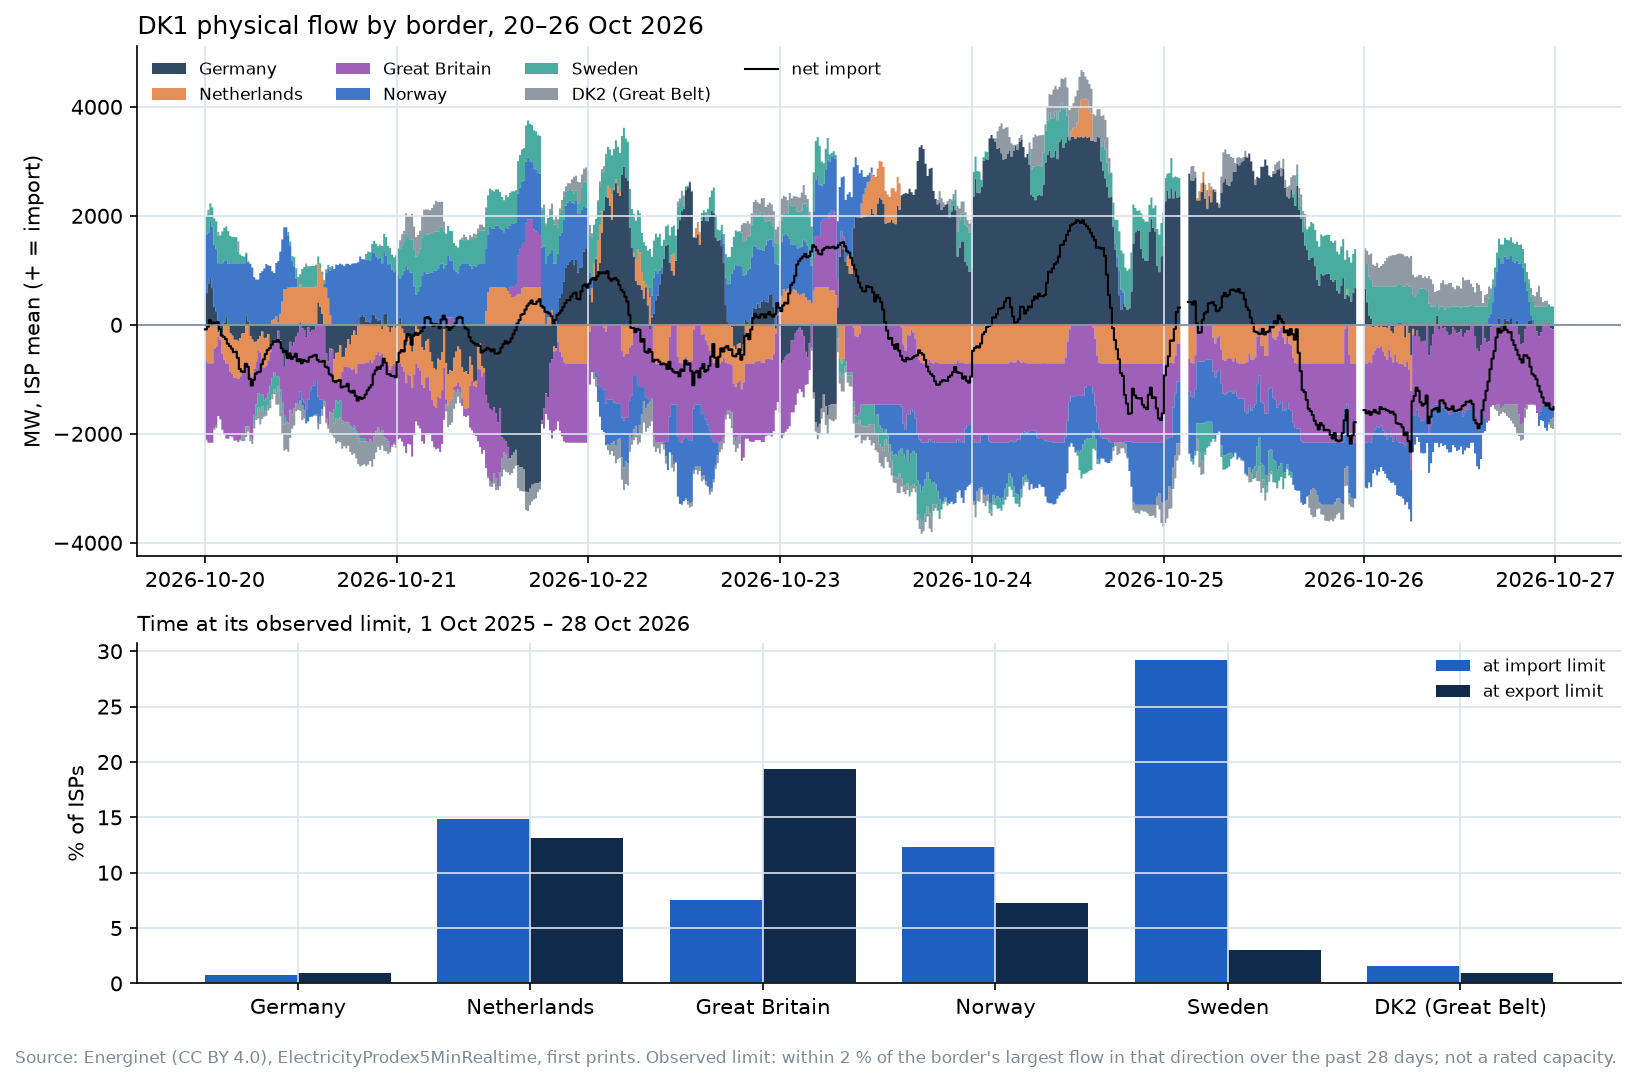
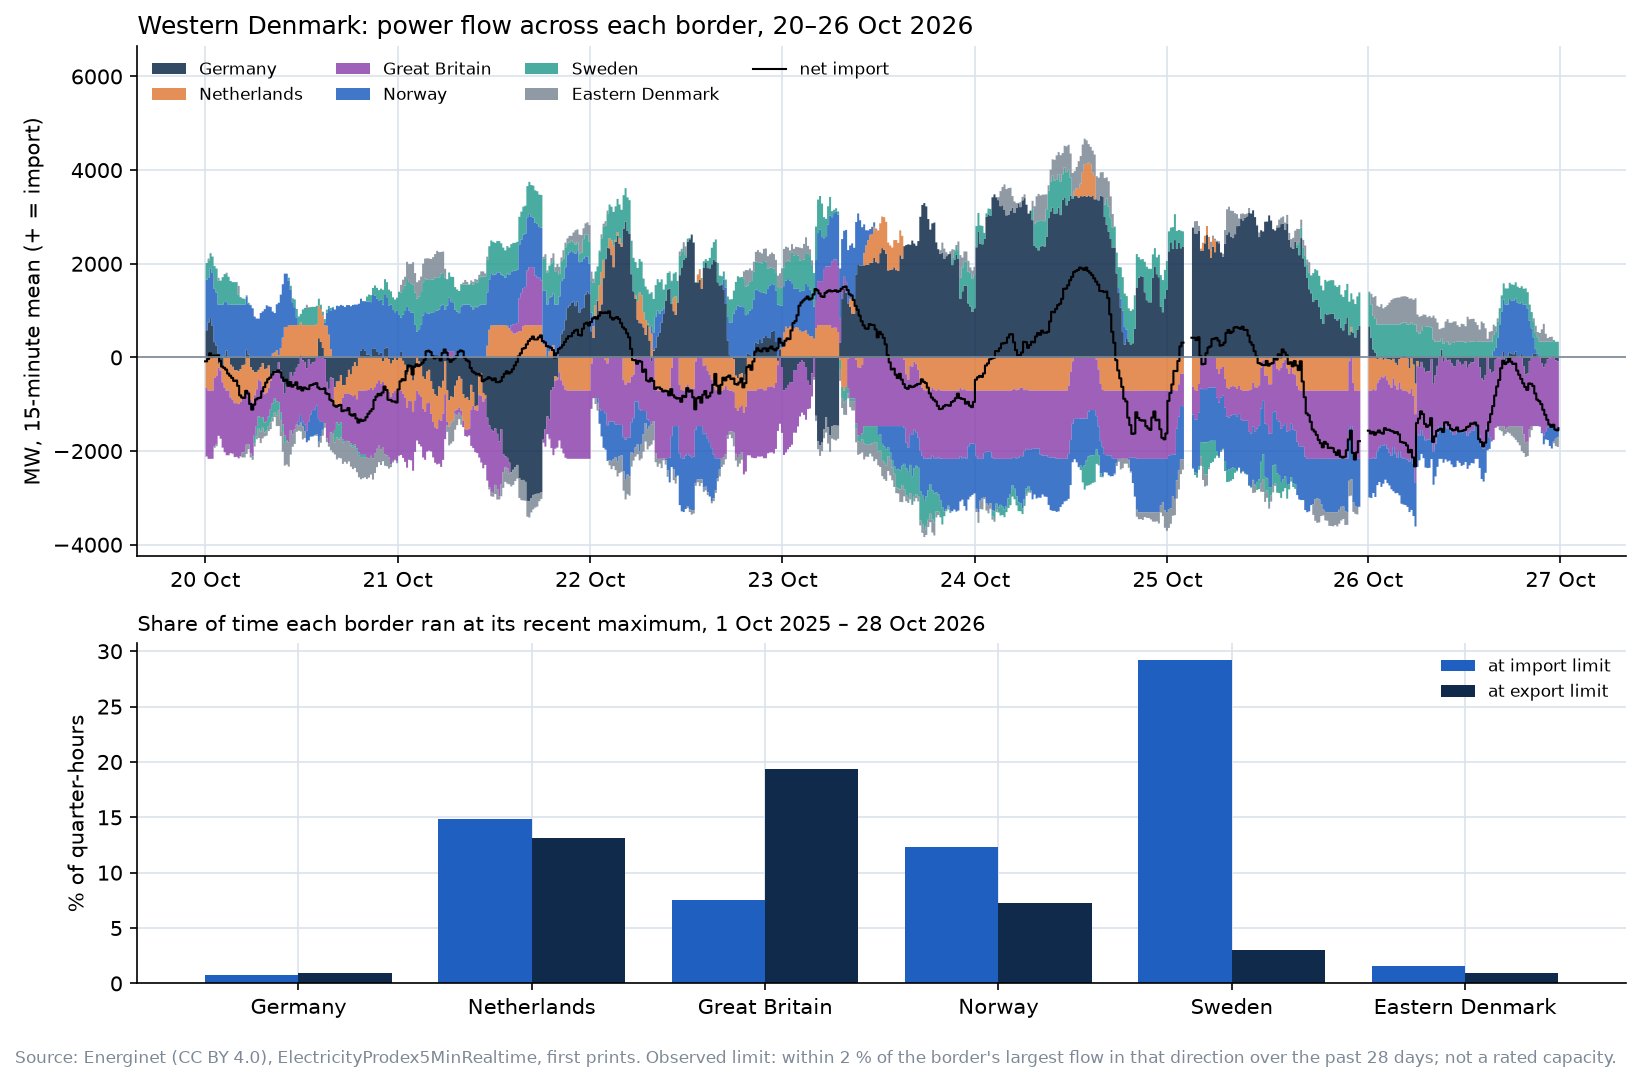
Make the README and layer charts plainer, with a short scorecard
Explain the project in everyday words and add a short scorecard, keeping the
full pre-registered table one click away. The statistics are unchanged; only
how they are displayed changes.

Redraw the three layer charts with plain labels and shorter dates, and add a
plain summary to the layer and experiment READMEs.

diff --git a/docs/layers/price-coupling/chart.py b/docs/layers/price-coupling/chart.py
@@ -15,6 +15,7 @@ from pathlib import Path
 import matplotlib
 
 matplotlib.use("Agg")
+import matplotlib.dates as mdates
 import matplotlib.pyplot as plt
 import numpy as np
 import pandas as pd
@@ -25,9 +26,11 @@ bt = importlib.util.module_from_spec(spec)
 spec.loader.exec_module(bt)
 
 NAVY, BLUE, GREY, BAND = "#0F2A4A", "#1F5FBF", "#7D8996", "#DCE3EC"
+NAMES = {"DK1": "western Denmark", "DE": "Germany", "DK2": "eastern Denmark",
+         "NO2": "southern Norway", "SE3": "central Sweden"}  # fmt: skip
 COLORS = {"DK1": "black", "DE": NAVY, "DK2": GREY, "NO2": BLUE, "SE3": "#2A9D8F"}
 plt.rcParams.update({"axes.spines.top": False, "axes.spines.right": False,
-                     "axes.grid": True, "grid.color": BAND})  # fmt: skip
+                     "axes.grid": True, "grid.color": BAND, "axes.axisbelow": True})  # fmt: skip
 
 raw = pd.concat(pd.read_parquet(p) for p in sorted(bt.CACHE.glob("*.parquet")))
 raw["t"] = (
@@ -42,23 +45,27 @@ fig, (top, bottom) = plt.subplots(
 )
 for area in bt.AREAS:
     top.plot(week.index, week[area], color=COLORS[area], lw=1.6 if area == "DK1" else 0.9,
-             label=area, drawstyle="steps-post", zorder=3 if area == "DK1" else 2)  # fmt: skip
+             label=NAMES[area], drawstyle="steps-post", zorder=3 if area == "DK1" else 2)  # fmt: skip
 top.set_ylabel("EUR/MWh")
-top.set_title("Day-ahead prices, DK1 and neighbours, 20–26 Oct 2026", loc="left")
+top.set_title("Next-day power prices, western Denmark and neighbours, 20–26 Oct 2026", loc="left")
+top.xaxis.set_major_formatter(mdates.DateFormatter("%-d %b", tz="Europe/Copenhagen"))
+low, high = top.get_ylim()
+top.set_ylim(low, high * 1.12)  # room for the legend
 top.legend(loc="upper left", ncol=5, frameon=False, fontsize=8)
 
 x = np.arange(len(check))
-bars = (("coupled", "coupled (same price)", BLUE),
-        ("at_limit_when_split", "at observed limit, when split", GREY),
-        ("flow_toward_dearer_when_split", "flow toward dearer side, when split", NAVY))  # fmt: skip
+bars = (("coupled", "same price", BLUE),
+        ("at_limit_when_split", "border at its recent maximum, when prices differ", GREY),
+        ("flow_toward_dearer_when_split", "power flowing to the dearer side, when prices differ", NAVY))  # fmt: skip
 for i, (col, label, color) in enumerate(bars):
     bottom.bar(
         x + (i - 1) * 0.27, 100 * check[col], width=0.27, color=color, label=label
     )
-bottom.set_xticks(x, check.border)
-bottom.set_ylabel("% of ISPs")
-bottom.set_ylim(0, 100)
-bottom.set_title("1 Oct 2025 – 28 Oct 2026", loc="left", fontsize=10)
+bottom.set_xticks(x, [NAMES[b.split("-")[1]] for b in check.border])
+bottom.set_ylabel("% of quarter-hours")
+bottom.set_ylim(0, 118)
+bottom.set_yticks(range(0, 101, 20))
+bottom.set_title("Each border with western Denmark, 1 Oct 2025 – 28 Oct 2026", loc="left", fontsize=10)
 bottom.legend(loc="upper left", frameon=False, fontsize=8, ncol=3)
 fig.text(0.01, -0.02, "Source: Energinet (CC BY 4.0), DayAheadPrices and ElectricityProdex5MinRealtime. "
          "No NL or GB price on Energi Data Service. Observed limit: within 2 % of the border's 28-day largest flow.",

diff --git a/docs/layers/residual-load/chart.py b/docs/layers/residual-load/chart.py
@@ -15,6 +15,7 @@ from pathlib import Path
 import matplotlib
 
 matplotlib.use("Agg")
+import matplotlib.dates as mdates
 import matplotlib.pyplot as plt
 import pandas as pd
 import psycopg
@@ -24,7 +25,7 @@ from _common import DB_URL
 
 NAVY, BLUE, GREY, BAND = "#0F2A4A", "#1F5FBF", "#7D8996", "#DCE3EC"
 plt.rcParams.update({"axes.spines.top": False, "axes.spines.right": False,
-                     "axes.grid": True, "grid.color": BAND})  # fmt: skip
+                     "axes.grid": True, "grid.color": BAND, "axes.axisbelow": True})  # fmt: skip
 RL, SD = "energinet.dk1.residual_load_mw", "energinet.dk1.satisfied_demand"
 
 
@@ -57,12 +58,13 @@ fig, (top, bottom) = plt.subplots(
 )
 top.axhline(0, color=GREY, lw=0.8)
 top.plot(
-    week.index, week, color=NAVY, lw=1.2, label="residual load (thermal + net import)"
+    week.index, week, color=NAVY, lw=1.2, label="residual load: demand − wind − solar"
 )
 top.plot(sd["2026-10-20":"2026-10-26"].index, sd["2026-10-20":"2026-10-26"], color=BLUE, lw=0.8,
-         alpha=0.7, label="SatisfiedDemand (imbalance target)")  # fmt: skip
-top.set_ylabel("MW, ISP mean")
-top.set_title("DK1 residual load = demand − wind − solar, 20–26 Oct 2026", loc="left")
+         alpha=0.7, label="balancing energy activated (the forecast target)")  # fmt: skip
+top.set_ylabel("MW, 15-minute mean")
+top.set_title("Western Denmark: demand left after wind and solar, 20–26 Oct 2026", loc="left")
+top.xaxis.set_major_formatter(mdates.DateFormatter("%-d %b", tz="Europe/Copenhagen"))
 top.legend(loc="upper left", frameon=False, fontsize=9)
 
 summary = []
@@ -81,12 +83,12 @@ for label, months, color in (
         f"{label}: mean {s.mean():.0f} MW, peak hour {peak:02d}:00, min {prof.min():.0f} MW at {int(prof.idxmin()):02d}:00"
     )
 bottom.axhline(0, color=GREY, lw=0.8)
-bottom.set_xlabel("hour, Copenhagen")
-bottom.set_ylabel("MW, mean")
+bottom.set_xlabel("hour of the day, Copenhagen")
+bottom.set_ylabel("MW, average")
 bottom.set_xticks(range(0, 24, 3))
 bottom.legend(loc="upper left", frameon=False, fontsize=9)
 fig.text(0.01, -0.02, "Source: Energinet (CC BY 4.0), ElectricityProdex5MinRealtime, first prints. "
-         "Thermal = plants <100 MW + ≥100 MW; net import = six exchanges, + = import.",
+         "Measured as thermal plants plus net imports across six borders.",
          fontsize=8, color=GREY)  # fmt: skip
 fig.tight_layout()
 fig.savefig(Path(__file__).with_name("residual_load.png"), dpi=150, bbox_inches="tight")

diff --git a/docs/layers/interconnectors/chart.py b/docs/layers/interconnectors/chart.py
@@ -14,6 +14,7 @@ from pathlib import Path
 import matplotlib
 
 matplotlib.use("Agg")
+import matplotlib.dates as mdates
 import matplotlib.pyplot as plt
 import numpy as np
 import psycopg
@@ -33,9 +34,9 @@ COLORS = {
     "dk2": GREY,
 }
 NAMES = {"de": "Germany", "nl": "Netherlands", "gb": "Great Britain", "no": "Norway",
-         "se": "Sweden", "dk2": "DK2 (Great Belt)"}  # fmt: skip
+         "se": "Sweden", "dk2": "Eastern Denmark"}  # fmt: skip
 plt.rcParams.update({"axes.spines.top": False, "axes.spines.right": False,
-                     "axes.grid": True, "grid.color": BAND})  # fmt: skip
+                     "axes.grid": True, "grid.color": BAND, "axes.axisbelow": True})  # fmt: skip
 
 with psycopg.connect(bt.DB_URL) as conn:
     frame = bt.isp_frame(conn)
@@ -65,8 +66,11 @@ top.plot(
     drawstyle="steps-post",
 )
 top.axhline(0, color=GREY, lw=0.8)
-top.set_ylabel("MW, ISP mean (+ = import)")
-top.set_title("DK1 physical flow by border, 20–26 Oct 2026", loc="left")
+top.set_ylabel("MW, 15-minute mean (+ = import)")
+top.set_title("Western Denmark: power flow across each border, 20–26 Oct 2026", loc="left")
+top.xaxis.set_major_formatter(mdates.DateFormatter("%-d %b", tz="Europe/Copenhagen"))
+low, high = top.get_ylim()
+top.set_ylim(low, high * 1.3)  # room for the legend
 top.legend(loc="upper left", ncol=4, frameon=False, fontsize=8)
 
 shares = []
@@ -91,9 +95,9 @@ bottom.bar(
     label="at export limit",
 )
 bottom.set_xticks(x, [NAMES[b] for b in bt.BORDERS])
-bottom.set_ylabel("% of ISPs")
+bottom.set_ylabel("% of quarter-hours")
 bottom.set_title(
-    "Time at its observed limit, 1 Oct 2025 – 28 Oct 2026", loc="left", fontsize=10
+    "Share of time each border ran at its recent maximum, 1 Oct 2025 – 28 Oct 2026", loc="left", fontsize=10
 )
 bottom.legend(loc="upper right", frameon=False, fontsize=8)
 fig.text(0.01, -0.02, "Source: Energinet (CC BY 4.0), ElectricityProdex5MinRealtime, first prints. "

diff --git a/src/nordcast/scorecard.py b/src/nordcast/scorecard.py
@@ -118,6 +118,41 @@ def _brier(s):
     return "–" if s is None else f"{s[0]:+.3f} ({s[1]:+.3f} to {s[2]:+.3f})"
 
 
+def _gain(s):
+    return "–" if s is None else f"{s[0]:+.1f} MW"
+
+
+def _name(method):
+    return "official forecast" if method == "headline" else method
+
+
+def plain_markdown(table):
+    """The short table: the same numbers, in everyday words."""
+    head = (
+        "| looking ahead | forecast | scored | right direction | gain on persistence"
+        " | inside its range (target 80 %) | on time |\n"
+        "|---|---|---|---|---|---|---|\n"
+    )
+    if not table:
+        return head + "| – | no scored calls yet | – | – | – | – | – |\n"
+    return head + "".join(
+        f"| {r['horizon']} min | {_name(r['method'])} | {r['calls']:,} |"
+        f" {_pct(r['direction_hit'])} | {_gain(r['skill'])} |"
+        f" {_pct(r['coverage'])} | {_pct(r['on_time'])} |\n"
+        for r in table
+    )
+
+
+def readme_block(table):
+    """The short table, with the full pre-registered one a click away."""
+    return (
+        plain_markdown(table)
+        + "\n<details><summary>Full table, with the pre-registered statistics</summary>\n\n"
+        + markdown(table)
+        + "\n</details>\n"
+    )
+
+
 def markdown(table):
     head = (
         "| horizon | method | calls | direction hit | pinball vs persistence"

diff --git a/tests/test_scorecard.py b/tests/test_scorecard.py
@@ -48,6 +48,14 @@ def test_replace_swaps_only_the_marked_block():
         scorecard.replace("no markers", "x")
 
 
+def test_readme_block_keeps_the_full_table_behind_the_short_one():
+    block = scorecard.readme_block([])
+    assert block.index("no scored calls yet") < block.index("<details>")
+    assert "Brier vs climatology" in block
+    readme = f"a\n{scorecard.START}\nold\n{scorecard.END}\nb\n"
+    assert "</details>" in scorecard.replace(readme, block)
+
+
 def test_brier_against_persistence_and_climatology():
     rows = []
     for k in range(8):

diff --git a/jobs/scorecard.py b/jobs/scorecard.py
@@ -20,7 +20,7 @@ with psycopg.connect(DB_URL) as conn:
     rows = conn.execute(scorecard.QUERY).fetchall()
     table = scorecard.lines(rows, scorecard.due_since(conn, now))
 old = README.read_text()
-new = scorecard.replace(old, scorecard.markdown(table))
+new = scorecard.replace(old, scorecard.readme_block(table))
 if new != old:
     README.write_text(new)
     msg = f"Scorecard {now:%Y-%m-%d}"

diff --git a/README.md b/README.md
@@ -1,37 +1,56 @@
 # nordcast
 
-Short-term forecasts of the power imbalance in western Denmark (DK1), published every quarter-hour and scored against the grid operator's first published number.
+nordcast forecasts the short-term power imbalance in western Denmark, publishes a forecast every quarter-hour, and keeps score in public.
 
-Energinet runs the Danish grid. Every 15 minutes it has to make up the difference between what was scheduled and what actually happened: if generation falls short it buys up-regulation, if there is too much it buys down-regulation. nordcast forecasts which way that will go and by how many megawatts, 15, 30 and 60 minutes ahead of each quarter-hour.
+Electricity supply and demand must match at every moment, but plans never hold exactly. Energinet, which runs the Danish grid, makes up the difference every 15 minutes. If generation falls short it buys extra power (up-regulation), and if there is too much it pays to reduce it (down-regulation). nordcast predicts which way that will go and by how many megawatts (MW), 15, 30 and 60 minutes ahead.
 
-The point is the record rather than the model. Each forecast is written to a file before its deadline, hashed, and the day's hashes are timestamped with OpenTimestamps. Once Energinet publishes the outcome, the forecast is scored against that first number. Nothing is revised afterwards, so the table below includes the misses and the deadlines that were not met.
+**The point is the record, more than the model.** Each forecast is saved before its deadline, with a timestamped fingerprint that proves when it was made. Once Energinet publishes the result, the forecast is scored against that first number. Nothing is revised afterwards, so misses and missed deadlines stay in the table.
 
-The forecast on the record today is persistence, the assumption that the next quarter-hour looks like the last one. A LightGBM model runs alongside it as a challenger. It is frozen and scored on exactly the same terms, but it only replaces persistence if it passes the test set out in advance in `notes/preregistration.md`, and not before 1 April 2027.
+**The official forecast is deliberately simple for now.** It is *persistence*: the next quarter-hour will look like the last one. A machine-learning model (LightGBM) runs beside it on the same terms. The model can only replace persistence if it passes a test written down in advance in `notes/preregistration.md`, and not before 1 April 2027.
 
 ![DK1 system imbalance and wind forecast error, 20 to 26 October 2026](notebooks/01_look.png)
 
-The upper panel is the forecast target, the balancing energy Energinet activated in each quarter-hour. The lower panel is the main thing a model can see coming: wind generation arriving above or below the day-ahead forecast.
+The top panel shows what is being forecast: the balancing energy Energinet used in each quarter-hour. The bottom panel shows the main thing a model can see coming: wind power arriving above or below the forecast made the day before.
 
 ## Scorecard
 
-Updated by the scoring job after each day's forecasts are timestamped. The record started on 28 October 2026 and the jobs only began running on a timer on 29 October, so for now the numbers say very little. In particular the on-time share starts low and will rise as the days accumulate.
+Updated automatically each day. The record only started on 28 October 2026, so for now these numbers say very little. The on-time share starts low and should rise as the days add up.
 
 <!-- scorecard -->
+| looking ahead | forecast | scored | right direction | gain on persistence | inside its range (target 80 %) | on time |
+|---|---|---|---|---|---|---|
+| 15 min | official forecast | 23 | 26.1 % | +0.0 MW | 95.7 % | 9.5 % |
+| 15 min | lightgbm_v1 (challenger) | 20 | 45.0 % | +6.0 MW | 90.0 % | 8.3 % |
+| 30 min | official forecast | 23 | 39.1 % | +0.0 MW | 100.0 % | 9.5 % |
+| 30 min | lightgbm_v1 (challenger) | 20 | 35.0 % | +5.9 MW | 90.0 % | 8.2 % |
+| 60 min | official forecast | 23 | 47.8 % | +0.0 MW | 100.0 % | 9.4 % |
+| 60 min | lightgbm_v1 (challenger) | 20 | 30.0 % | +6.0 MW | 90.0 % | 8.2 % |
+
+<details><summary>Full table, with the pre-registered statistics</summary>
+
 | horizon | method | calls | direction hit | pinball vs persistence (90 % CI) | Brier vs persistence | Brier vs climatology | coverage q10–q90 | on-time | live since |
 |---|---|---|---|---|---|---|---|---|---|
 | 15 min | headline | 23 | 26.1 % | +0.0 MW (+0.0 to +0.0) | +0.000 (+0.000 to +0.000) | -0.646 (-1.236 to +0.072) | 95.7 % | 9.5 % | 28 Oct 2026 |
 | 15 min | lightgbm_v1 (challenger) | 20 | 45.0 % | +6.0 MW (+3.5 to +8.4) | +0.301 (-0.088 to +0.772) | -0.345 (-0.839 to +0.149) | 90.0 % | 8.3 % | 29 Oct 2026 |
 | 30 min | headline | 23 | 39.1 % | +0.0 MW (+0.0 to +0.0) | +0.000 (+0.000 to +0.000) | -0.698 (-1.068 to -0.351) | 100.0 % | 9.5 % | 28 Oct 2026 |
-| 30 min | lightgbm_v1 (challenger) | 20 | 35.0 % | +5.9 MW (+3.4 to +8.4) | +0.345 (+0.135 to +0.528) | -0.353 (-0.764 to +0.058) | 90.0 % | 8.3 % | 29 Oct 2026 |
+| 30 min | lightgbm_v1 (challenger) | 20 | 35.0 % | +5.9 MW (+3.4 to +8.4) | +0.345 (+0.135 to +0.528) | -0.353 (-0.764 to +0.058) | 90.0 % | 8.2 % | 29 Oct 2026 |
 | 60 min | headline | 23 | 47.8 % | +0.0 MW (+0.0 to +0.0) | +0.000 (+0.000 to +0.000) | -0.717 (-1.136 to -0.345) | 100.0 % | 9.4 % | 28 Oct 2026 |
 | 60 min | lightgbm_v1 (challenger) | 20 | 30.0 % | +6.0 MW (+2.3 to +9.7) | +0.237 (+0.045 to +0.533) | -0.480 (-0.902 to -0.059) | 90.0 % | 8.2 % | 29 Oct 2026 |
+
+</details>
 <!-- /scorecard -->
 
-Calls is the number of scored forecasts at that horizon. Direction hit is how often the forecast named the right direction (up, down, or neither). The pinball column compares the volume forecast with plain persistence, in MW, with a 90% bootstrap interval; positive is better, and for persistence itself it is zero by definition. Coverage is how often the actual value fell inside the published 10th to 90th percentile range, where 80% is the target. On-time is the share of forecasts due since the start that were frozen inside their window.
+How to read it:
+
+- **Scored:** how many forecasts have a result so far.
+- **Right direction:** how often the forecast named the right direction (up, down or neither).
+- **Gain on persistence:** how much better the size forecast was than persistence, in MW. Above zero is better. The official forecast shows zero because it currently is persistence.
+- **Inside its range:** how often the result fell inside the forecast's published range. The target is 80%.
+- **On time:** the share of forecasts due since the start that were saved before their deadline.
 
 ## Before going live
 
-The methods were rehearsed on 2025 and 2026 data in quarterly rounds, each adding one method to the ladder. This used reconstructed data, so it is not part of the record, but it is why persistence with mean reversion is next in line.
+The methods were first rehearsed on 2025 and 2026 data, one quarter at a time, adding one method each round. Lower error is better. This used reconstructed data, so it isn't part of the record, but it explains why persistence plus mean reversion (assuming the imbalance drifts back towards normal) is next in line.
 
 ![Replay: mean absolute error of the 15-minute call, by round](replay/mae_by_round.png)
 

diff --git a/docs/experiments/stability/README.md b/docs/experiments/stability/README.md
@@ -1,5 +1,7 @@
 # Experiment: is any model's edge significant and stable? (30 Oct 2026)
 
+**In plain English.** Is any model's lead real, and does it last? The model's lead on forecast size looks real and steady. Its lead on direction is smaller and fading. This is a rehearsal on past data, and the live test is the one that counts.
+
 The replay and the model cards compared average losses. This asks the two further questions a forecast evaluation owes its reader: is the difference distinguishable from noise, and did it hold over time or come from one stretch? It runs on the replay's 2026 rounds, 273 days, out of sample, with LightGBM v1 refit before each round. The test is Diebold–Mariano on daily mean loss differences with Newey–West errors over 7 lags ([run.py](run.py), results in [results.csv](results.csv)). This is research on estimated vintages. It changes nothing in the record or the pre-registration.
 
 ![Cumulative gain of LightGBM v1 against AR(1) on volume and against climatology on direction](stability.png)

diff --git a/docs/experiments/direction-v2/README.md b/docs/experiments/direction-v2/README.md
@@ -1,5 +1,7 @@
 # Experiment: can the direction call beat hour-of-day climatology by more? (29 Oct 2026)
 
+**In plain English.** Can two cheap ideas widen the model's narrow lead on the up-or-down forecast? No, though blending it with the usual hour-of-day pattern never hurt, so it is a useful safeguard.
+
 **Question.** [direction-bar](../direction-bar/README.md) found lightgbm_v1's direction ahead of hour-of-day climatology by only 0.01–0.03 Brier at 15–30 min, and behind it at 60 min in 2026q3. Do two cheap ideas widen that?
 
 **Answer: no, but one is a useful guard.** Feeding climatology to LightGBM as features (`stack`) doesn't help and is slightly worse in 2026q2–q3. Blending v1 with climatology (`blend`, weight chosen on data before each round) never hurt: it picked w = 1 (v1 itself) in 2026q1–q2 and leaned toward climatology in 2026q3, where it beat v1 and turned v1's 60-minute loss to climatology into a draw. Research only; lightgbm_v1 and the pre-registration are untouched.

diff --git a/docs/layers/price-coupling/README.md b/docs/layers/price-coupling/README.md
@@ -1,5 +1,7 @@
 # Layer: DK1 price coupling (#31, DK1 part): when DK1's day-ahead price splits from its neighbours, and whether the flows follow
 
+**In plain English.** When a border has spare room, prices on each side tend to match. When it fills up, they split. This layer looks at how often western Denmark's next-day price differs from its neighbours' and whether power follows the price. It adds nothing to the forecast record.
+
 **Status:** analysis built, uncommitted, 29 Oct 2026. **Nothing is added to the record:** neighbour prices are cached outside it (`data/history/DayAheadPricesAll/`, gitignored), because adding areas means changing nordcast's DK1-only fetch and live loader, and the test below gives no reason to. The risks were written down before any code: [RISK.md](RISK.md). The test: [backtest.py](backtest.py), results in [coupling.csv](coupling.csv) and [backtest.csv](backtest.csv).
 
 ![DK1 price coupling](price_coupling.png)

diff --git a/docs/experiments/first-print-lags/README.md b/docs/experiments/first-print-lags/README.md
@@ -1,5 +1,7 @@
 # Check: are the nominal lags late enough? (29 Oct 2026)
 
+**In plain English.** Past data is stamped with an assumed time of publication, and that assumption must err late. This check finds it does for every measured feed but one: the forecast target sometimes appeared later than assumed. The sample is small, so it needs re-measuring.
+
 **Question.** Backfilled history is stamped `published_at = NOMINAL_LAG(isp)`, and the challenger reads live data through the same lags (`challenger.nominal`). A lag must err late (notes/backfill.md: check it against the live pulls "and correct the constant"). Are they late enough?
 
 **Answer: every measured lag is, except the target's.** `SatisfiedDemand` (and `DominatingDirection`, the same row) usually prints ~7 min after its ISP ends, but in 3 of 16 watched ISPs it printed ~22 min after, past the nominal 15. Small sample, one day; re-measure after a week before acting.

diff --git a/docs/layers/residual-load/README.md b/docs/layers/residual-load/README.md
@@ -1,5 +1,7 @@
 # Layer: DK1 residual load (#32): demand − wind − solar, measured every 5 minutes
 
+**In plain English.** Residual load is the demand left after wind and solar, which other plants and imports must cover. This layer measures it every 5 minutes and checks it against Energinet's later settled figures. It doesn't produce a forecast of its own.
+
 **Status:** built and tested, uncommitted, 29 Oct 2026. The series is loaded into nordcast's local record (backfilled from 1 Mar 2025 as estimated vintages; live pulls add exact ones). Nothing about the frozen calls, the challenger or the pre-registration changed. The risks were written down before any code: [RISK.md](RISK.md). The test that decided the alpha question: [backtest.py](backtest.py), results in [backtest.csv](backtest.csv).
 
 ![DK1 residual load](residual_load.png)
